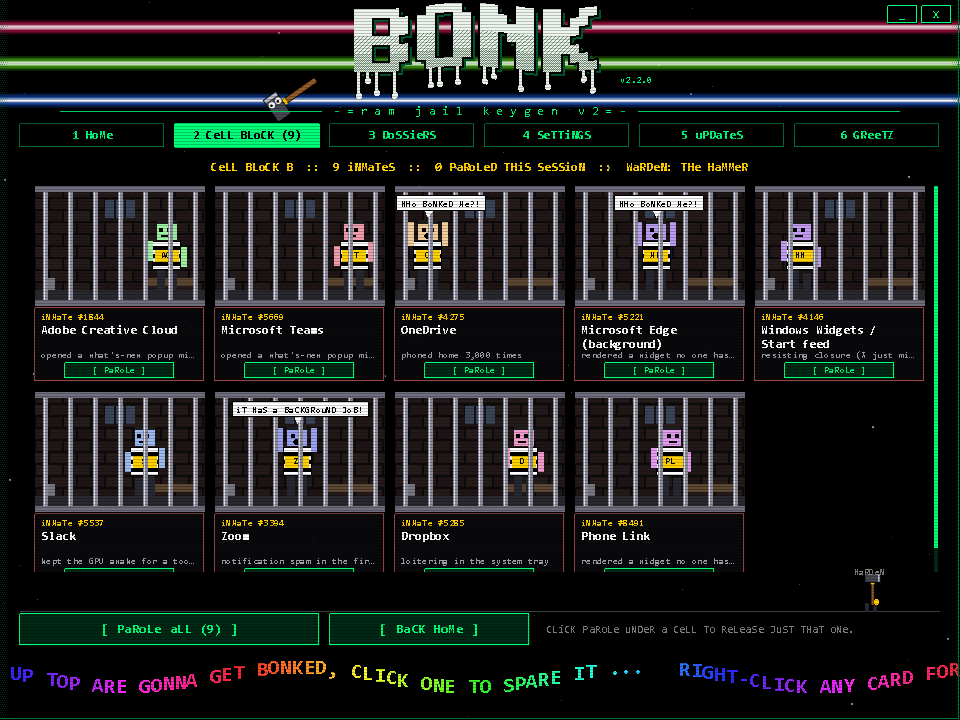
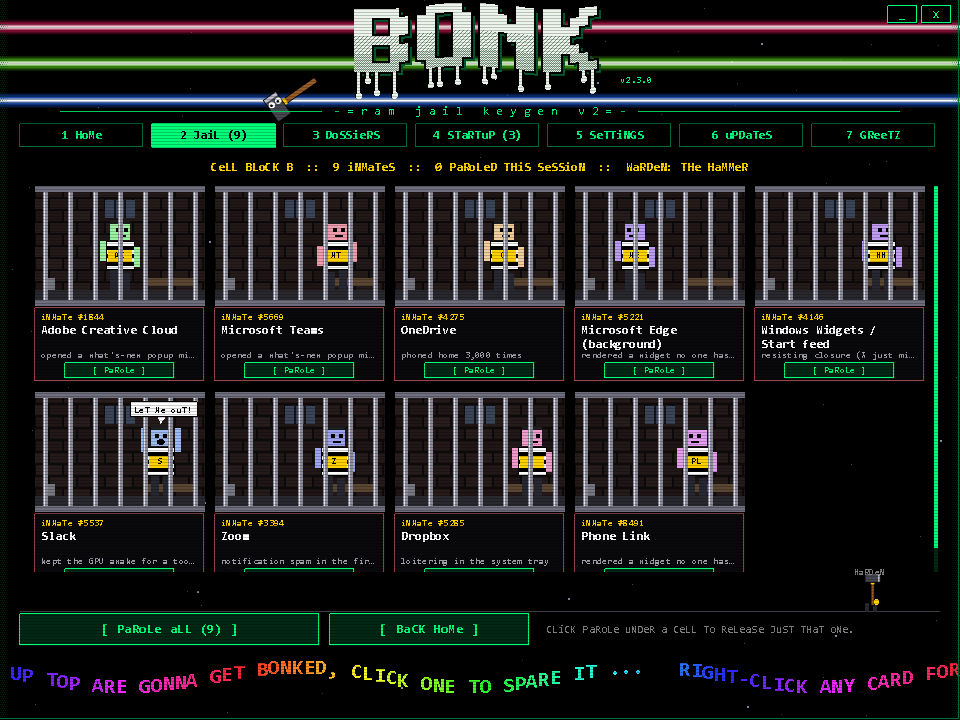
v2.3.0: Startup Jail
Stop apps from launching at login, fully reversible.

- New STARTUP screen listing HKCU/HKLM/WOW6432 Run keys and both Startup
  folders with live RAM and impact.
- Jail/parole writes Windows' StartupApproved flag (02 enabled, 03 + FILETIME
  disabled), the same switch Task Manager uses; nothing is deleted.
- HKLM entries elevate one change through a UAC prompt.
- Immune: security, audio drivers, Bonk Mode, Windows-dir exes, and the
  user's startupImmune list.
- Screens moved to named constants; 7 tabs; -StartupList dry run.
- Verified jail and parole on a throwaway HKCU entry (flag 3 then 2).

diff --git a/bonk-ui.cs b/bonk-ui.cs
@@ -368,6 +368,14 @@ namespace BonkMode
         public bool Escaping, Fire, Fired;
     }
 
+    public class StartItem
+    {
+        public string Key, Name, Source, Command;
+        public bool Enabled, Immune, Admin, Pending;
+        public int MB;
+        public float Bars;
+    }
+
     class Particle { public float X, Y, VX, VY, Life; public string C; public Color Col; }
     class Pop { public float X, Y, Age; public string Text; }
     class Star { public float X, Y, Z; }
@@ -395,6 +403,8 @@ namespace BonkMode
         public event Action<string, string> SettingChanged;
         public event Action GameCancelClicked;
         public event Action<string, string> SuspectAction;
+        public event Action<string, bool> StartupToggle;
+        public event Action StartupRefresh;
 
         public static bool NoAudio;
 
@@ -411,7 +421,8 @@ namespace BonkMode
         static readonly Color DimGreen = Color.FromArgb(0, 110, 55);
         static readonly Color Red = Color.FromArgb(255, 60, 60);
         static readonly Color Gold = Color.FromArgb(255, 210, 0);
-        static readonly string[] TabNames = { "HoMe", "CeLL BLoCK", "DoSSieRS", "SeTTiNGS", "uPDaTeS", "GReeTZ" };
+        static readonly string[] TabNames = { "HoMe", "JaiL", "DoSSieRS", "STaRTuP", "SeTTiNGS", "uPDaTeS", "GReeTZ" };
+        const int ScrHome = 0, ScrJail = 1, ScrDossier = 2, ScrStartup = 3, ScrSettings = 4, ScrUpdates = 5, ScrGreetz = 6;
         static readonly string[] PopWords = { "BoNK!", "WHaM!", "SMaSH!", "BoNK!", "K.O.!", "ByE!", "BoNK!", "PoW!", "CLaNK!" };
         static readonly string[] Bubbles = {
             "LeT Me ouT!", "i JuST WaNTeD To SYNC!", "1 MoRe uPDaTe...", "i KNoW MY RiGHTS!", "CaLL MY LaWYeR!",
@@ -492,7 +503,8 @@ namespace BonkMode
         int updPct = -1;
         string updMsg = "";
         string gameStatus = "aSK :: WaTCHiNG";
-        int settingsScroll;
+        int settingsScroll, startScroll, startJailed;
+        readonly List<StartItem> startItems = new List<StartItem>();
 
         public KeygenForm()
         {
@@ -532,7 +544,7 @@ namespace BonkMode
                 "VISIT THE CELL BLOCK AND GRANT PAROLE ONE INMATE AT A TIME ...   THE UPDATER PULLS FRESH CRACKS STRAIGHT FROM GITHUB ...   " +
                 "STEAM, YOUR GPU DRIVER AND WINDOWS HAVE DIPLOMATIC IMMUNITY ...   " +
                 "GREETZ FLY OUT TO RAZOR 1911, FAIRLIGHT, RELOADED, CODEX, SKIDROW, SND, CPY AND EVERY KEYGEN MUSICIAN WHO MADE A 40KB TRACKER FILE SLAP ...   " +
-                "NO GREETZ TO ADOBE CREATIVE CLOUD, YOU KNOW WHAT YOU DID ...   BONK MODE IS OPEN SOURCE UNDER APACHE 2.0, FORKS MUST CREDIT GITHUB.COM/MAKESUPPLY/BONK-MODE ...   [1-6] SCREENS  [B] BONK  [P] PAROLE  [M] MUSIC  [ESC] EXIT ...   ";
+                "NO GREETZ TO ADOBE CREATIVE CLOUD, YOU KNOW WHAT YOU DID ...   BONK MODE IS OPEN SOURCE UNDER APACHE 2.0, FORKS MUST CREDIT GITHUB.COM/MAKESUPPLY/BONK-MODE ...   [1-7] SCREENS  [B] BONK  [P] PAROLE  [M] MUSIC  [ESC] EXIT ...   ";
             using (Graphics g = CreateGraphics())
                 charW = g.MeasureString("MMMMMMMMMM", fScroll, PointF.Empty, StringFormat.GenericTypographic).Width / 10f;
             scrollX = W;
@@ -575,6 +587,23 @@ namespace BonkMode
 
         public void SetGameStatus(string s) { gameStatus = s ?? ""; }
 
+        public void SetStartup(string[] keys, string[] names, string[] sources, string[] commands, bool[] enabled, bool[] immune, int[] mb, bool[] admin)
+        {
+            Dictionary<string, StartItem> old = new Dictionary<string, StartItem>();
+            foreach (StartItem x in startItems) old[x.Key] = x;
+            startItems.Clear();
+            startJailed = 0;
+            for (int i = 0; i < keys.Length; i++)
+            {
+                StartItem s;
+                if (!old.TryGetValue(keys[i], out s)) { s = new StartItem(); s.Key = keys[i]; s.Bars = enabled[i] ? 0 : 1; }
+                s.Name = names[i]; s.Source = sources[i]; s.Command = commands[i]; s.Enabled = enabled[i];
+                s.Immune = immune[i]; s.MB = mb[i]; s.Admin = admin[i]; s.Pending = false;
+                if (!s.Enabled && !s.Immune) startJailed++;
+                startItems.Add(s);
+            }
+        }
+
         public void ShowGameBanner(string game)
         {
             bannerText = "GaMe oN!"; bannerSub = Leet(game + " detected. clearing the room."); bannerT = 0;
@@ -582,7 +611,7 @@ namespace BonkMode
             Play(sfxFanfare);
         }
 
-        public void ShowScreen(int s) { screen = Math.Max(0, Math.Min(5, s)); transT = 0; }
+        public void ShowScreen(int s) { screen = Math.Max(0, Math.Min(TabNames.Length - 1, s)); transT = 0; }
 
         public void PreviewBonk() { StartBonk(null, false); }
 
@@ -691,6 +720,7 @@ namespace BonkMode
             for (int i = pops.Count - 1; i >= 0; i--) { pops[i].Age += fdt; if (pops[i].Age > 0.75f) pops.RemoveAt(i); }
             if (bannerT >= 0) { bannerT += dt; if (bannerT > 2.2) bannerT = -1; }
             if (radarPing >= 0) { radarPing += dt; if (radarPing > 3) radarPing = -1; }
+            foreach (StartItem s in startItems) { if (!s.Enabled && !s.Immune) s.Bars = Math.Min(1, s.Bars + fdt * 3); else s.Bars = Math.Max(0, s.Bars - fdt * 3); }
             shake = Math.Max(0, shake - fdt * 2.5f);
             scrollX -= dt * 140;
             if (scrollX < -scrollText.Length * charW) scrollX = W;
@@ -1060,9 +1090,10 @@ namespace BonkMode
             int d = -e.Delta / 120 * 50;
             if (screen == 0) homeScroll += d;
             else if (screen == 1) jailScroll += d;
-            else if (screen == 2 && e.X < 480) appsScroll += d / 2;
-            else if (screen == 4) logScroll += d / 2;
-            else if (screen == 3) settingsScroll += d;
+            else if (screen == ScrDossier && e.X < 480) appsScroll += d / 2;
+            else if (screen == ScrUpdates) logScroll += d / 2;
+            else if (screen == ScrSettings) settingsScroll += d;
+            else if (screen == ScrStartup) startScroll += d / 2;
         }
 
         protected override void OnKeyDown(KeyEventArgs e)
@@ -1072,8 +1103,8 @@ namespace BonkMode
             else if (e.KeyCode == Keys.M) ChangeSetting("music", IsTrue(settings["music"]) ? "False" : "True");
             else if (e.KeyCode == Keys.B) StartBonk(null, true);
             else if (e.KeyCode == Keys.P) StartParoleAll();
-            else if (e.KeyCode >= Keys.D1 && e.KeyCode <= Keys.D6) Go(e.KeyCode - Keys.D1);
-            else if (e.KeyCode >= Keys.NumPad1 && e.KeyCode <= Keys.NumPad6) Go(e.KeyCode - Keys.NumPad1);
+            else if (e.KeyCode >= Keys.D1 && e.KeyCode < Keys.D1 + TabNames.Length) Go(e.KeyCode - Keys.D1);
+            else if (e.KeyCode >= Keys.NumPad1 && e.KeyCode < Keys.NumPad1 + TabNames.Length) Go(e.KeyCode - Keys.NumPad1);
         }
 
         void HandleClick(string id, MouseButtons button)
@@ -1091,7 +1122,7 @@ namespace BonkMode
             {
                 AppInfo a = Find(id.Substring(5));
                 if (a == null) return;
-                if (button == MouseButtons.Right) { selected = a.Label; filter = "all"; Go(2); Play(sfxBlip); }
+                if (button == MouseButtons.Right) { selected = a.Label; filter = "all"; Go(ScrDossier); Play(sfxBlip); }
                 else if (a.Jailed) { selected = a.Label; Go(1); }
                 else ToggleApp(a);
                 return;
@@ -1126,6 +1157,23 @@ namespace BonkMode
                 if (add && shakeOn) shake = 0.3f;
                 status = Leet(add ? "added to the bonk list: " + (s != null ? s.Label : proc) : "spared forever: " + (s != null ? s.Label : proc));
                 if (SuspectAction != null) SuspectAction(proc, add ? "add" : "spare");
+                return;
+            }
+            if (id == "startup-refresh") { Play(sfxBlip); if (StartupRefresh != null) StartupRefresh(); return; }
+            if (id.StartsWith("startup:"))
+            {
+                if (Busy) return;
+                string key = id.Substring(8);
+                StartItem s = null;
+                foreach (StartItem x in startItems) if (x.Key == key) s = x;
+                if (s == null || s.Immune) return;
+                bool enable = !s.Enabled;
+                s.Pending = true;
+                Play(enable ? sfxParole : sfxSlam);
+                if (!enable && shakeOn) shake = 0.35f;
+                status = Leet((enable ? "paroling " : "jailing ") + s.Name + (enable ? " back into startup..." : " from startup...") + (s.Admin ? " (windows will ask for admin)" : ""));
+                busy = true;
+                if (StartupToggle != null) StartupToggle(key, enable);
                 return;
             }
             if (id == "gamecancel") { Play(sfxClick); if (GameCancelClicked != null) GameCancelClicked(); return; }
@@ -1219,11 +1267,12 @@ namespace BonkMode
                 DrawNav(g);
                 switch (screen)
                 {
-                    case 0: DrawHome(g); break;
-                    case 1: DrawJail(g); break;
-                    case 2: DrawDossier(g); break;
-                    case 3: DrawSettings(g); break;
-                    case 4: DrawUpdates(g); break;
+                    case ScrHome: DrawHome(g); break;
+                    case ScrJail: DrawJail(g); break;
+                    case ScrDossier: DrawDossier(g); break;
+                    case ScrStartup: DrawStartup(g); break;
+                    case ScrSettings: DrawSettings(g); break;
+                    case ScrUpdates: DrawUpdates(g); break;
                     default: DrawGreetz(g); break;
                 }
                 DrawHammer(g);
@@ -1334,18 +1383,20 @@ namespace BonkMode
 
         void DrawNav(Graphics g)
         {
-            for (int i = 0; i < 6; i++)
+            int n = TabNames.Length, tw = (920 - (n - 1) * 8) / n;
+            for (int i = 0; i < n; i++)
             {
-                Rectangle r = new Rectangle(20 + i * 155, 124, 145, 24);
+                Rectangle r = new Rectangle(20 + i * (tw + 8), 124, tw, 24);
                 string id = "tab:" + i;
                 string label = (i + 1) + " " + TabNames[i];
-                if (i == 1 && jailCount > 0) label += " (" + jailCount + ")";
-                bool alert = i == 4 && updAvailable && (int)(t * 3) % 2 == 0;
+                if (i == ScrJail && jailCount > 0) label += " (" + jailCount + ")";
+                if (i == ScrStartup && startJailed > 0) label += " (" + startJailed + ")";
+                bool alert = i == ScrUpdates && updAvailable && (int)(t * 3) % 2 == 0;
                 bool active = screen == i;
                 Color bg = active ? Green : Hot(id) ? Color.FromArgb(0, 70, 35) : alert ? Color.FromArgb(120, 90, 0) : Color.FromArgb(0, 0, 0);
                 g.FillRectangle(B(bg), r);
                 g.DrawRectangle(P(active ? Green : DimGreen), r.X, r.Y, r.Width - 1, r.Height - 1);
-                g.DrawString(label + (i == 4 && updAvailable ? " !" : ""), fNfoB, B(active ? Color.Black : alert ? Color.Black : Green), r, sfCenter);
+                g.DrawString(label + (i == ScrUpdates && updAvailable ? " !" : ""), fNfoB, B(active ? Color.Black : alert ? Color.Black : Green), r, sfCenter);
                 Zone(r, id);
             }
         }
@@ -1900,6 +1951,69 @@ namespace BonkMode
 
         // ------------------------------------------------------------ screen 4: settings
 
+        void DrawStartup(Graphics g)
+        {
+            int total = startItems.Count;
+            string head = "STaRTuP JaiL  ::  " + total + " aPPS LauNCH aT LoGiN  ::  " + startJailed + " JaiLeD  ::  FeWeR = FaSTeR BooT";
+            g.DrawString(head, fNfoB, B(Gold), new RectangleF(20, 158, W - 40, 20), sfCenter);
+            Rectangle area = new Rectangle(20, 184, W - 40, 398);
+            g.FillRectangle(B(Color.FromArgb(200, 0, 0, 0)), area);
+            g.DrawRectangle(P(DimGreen), area);
+            const int rh = 36;
+            float contentH = total * rh + 4;
+            startScroll = Clamp(startScroll, 0, Math.Max(0, (int)contentH - area.Height));
+            if (total == 0) g.DrawString(Leet("reading your startup apps..."), fNfo, B(Color.Gray), new RectangleF(area.X, area.Y, area.Width, area.Height), sfCenter);
+            g.SetClip(area);
+            for (int i = 0; i < total; i++)
+            {
+                StartItem s = startItems[i];
+                float y = area.Y + 2 + i * rh - startScroll;
+                if (y + rh < area.Top || y > area.Bottom) continue;
+                zonesOff = y < area.Top || y + rh - 2 > area.Bottom;
+                RectangleF row = new RectangleF(area.X + 2, y, area.Width - 12, rh - 3);
+                g.FillRectangle(B(i % 2 == 0 ? Color.FromArgb(10, 20, 14) : Color.FromArgb(16, 28, 20)), row);
+                string id = "startup:" + s.Key;
+                RectangleF btn = new RectangleF(row.X + 6, y + 6, 104, 22);
+                if (s.Immune)
+                {
+                    g.FillRectangle(B(Color.FromArgb(30, 30, 40)), btn);
+                    g.DrawRectangle(P(Color.Gray), btn.X, btn.Y, btn.Width - 1, btn.Height - 1);
+                    g.DrawString("iMMuNe", fTiny, B(Color.Gray), btn, sfCenter);
+                }
+                else
+                {
+                    bool hot = Hot(id) && !Busy;
+                    Color fg = s.Pending ? Gold : s.Enabled ? Green : Red;
+                    g.FillRectangle(B(hot ? fg : s.Enabled ? Color.FromArgb(0, 45, 22) : Color.FromArgb(60, 0, 0)), btn);
+                    g.DrawRectangle(P(fg), btn.X, btn.Y, btn.Width - 1, btn.Height - 1);
+                    string txt = s.Pending ? "..." : s.Enabled ? "STaRTS" : "JaiLeD";
+                    g.DrawString(txt, fNfoB, B(hot ? Color.Black : fg), btn, sfCenter);
+                    if (!Busy) Zone(btn, id);
+                }
+                g.DrawString(s.Name, fNfoB, B(s.Enabled || s.Immune ? Color.White : Color.FromArgb(170, 170, 180)), new RectangleF(row.X + 120, y + 3, 330, 16), sfLeftMid);
+                g.DrawString(s.Command, fTiny, B(Color.FromArgb(120, 130, 120)), new RectangleF(row.X + 120, y + 18, 520, 13), sfLeftMid);
+                SizeF ss = g.MeasureString(s.Source, fTiny);
+                g.FillRectangle(B(s.Admin ? Color.FromArgb(70, 50, 0) : Color.FromArgb(0, 40, 50)), row.X + 470, y + 3, ss.Width + 4, 13);
+                g.DrawString(s.Source, fTiny, B(s.Admin ? Gold : Color.FromArgb(120, 220, 255)), row.X + 472, y + 4);
+                if (s.Admin) g.DrawString(Leet("admin"), fTiny, B(Color.FromArgb(150, 120, 40)), row.X + 476 + ss.Width, y + 4);
+                string impact = s.MB >= 300 ? "HeaVY" : s.MB >= 80 ? "MeDiuM" : s.MB > 0 ? "LiGHT" : "NoT RuNNiNG";
+                Color ic = s.MB >= 300 ? Red : s.MB >= 80 ? Color.Yellow : s.MB > 0 ? Green : Color.Gray;
+                g.DrawString(impact, fNfoB, B(ic), new RectangleF(row.Right - 190, y + 3, 100, 16), sfLeftMid);
+                if (s.MB > 0) g.DrawString(FormatSize(s.MB) + Leet(" now"), fTiny, B(Color.FromArgb(160, 170, 160)), new RectangleF(row.Right - 190, y + 19, 100, 12), sfLeftMid);
+                if (s.Bars > 0)
+                {
+                    float bw = row.Width * s.Bars;
+                    g.FillRectangle(B(Color.FromArgb((int)(60 * s.Bars), 255, 0, 0)), row.X, row.Y, bw, row.Height);
+                    for (float bx = row.X + 130; bx < row.X + bw; bx += 46)
+                        g.FillRectangle(B(Color.FromArgb(120, 170, 170, 185)), bx, row.Y, 3, row.Height);
+                }
+            }
+            zonesOff = false;
+            g.ResetClip();
+            Scrollbar(g, area.Right - 6, area.Top + 2, area.Bottom - 2, contentH, startScroll);
+            Button(g, new RectangleF(20, BtnY, 200, 32), "[ ReFReSH ]", "startup-refresh", Color.FromArgb(0, 40, 20), Green, !Busy);
+            g.DrawString(Leet("nothing is deleted. a jailed app just stops launching at login; parole flips it back. admin items ask windows first."), fSmall, B(Color.Gray), new RectangleF(232, BtnY + 2, W - 252, 30), sfWrap);
+        }
         void DrawSettings(Graphics g)
         {
             Rectangle box = new Rectangle(20, 162, W - 40, 448);
@@ -2075,7 +2189,7 @@ namespace BonkMode
                 "    aPPS THaT MiNiMiZe WHeN You HiT X",
                 "",
                 "  KeYS:",
-                "    [1-6] SCReeNS  [B] BoNK  [P] PaRoLe",
+                "    [1-7] SCReeNS  [B] BoNK  [P] PaRoLe",
                 "    [M] MuSiC  [eSC] eXiT  WHeeL SCRoLLS",
                 "",
                 "  oPeN SouRCe (aPaCHe-2.0):",

diff --git a/README.md b/README.md
@@ -88,15 +88,23 @@ Click **[PAROLE]** under one cell and that inmate's bars slide open and it sprin
 
 Every app on your list, running or asleep, filterable by **targets / spared / jailed / sleeping**. Each dossier has a mugshot against a height chart, its live status, every process alias it hides behind, what parole will do to bring it back, its rap sheet, and a **live RAM history chart**. Sentence it, spare it, **BONK NOW** just that one, or parole it from here.
 
-### 4 · SETTINGS
+### 4 · STARTUP JAIL: faster boot, every day
+
+![Startup jail](screenshots/startup.png)
+
+Every app that launches when you log in, from the registry Run keys and the Startup folders, with how heavy it is right now. Click **STARTS** to jail it from startup and **JAILED** to parole it back.
+
+It flips Windows' own StartupApproved switch, the same one Task Manager's Startup tab uses. Nothing is deleted, Task Manager shows the same state, and you can undo anything. Machine-wide entries ask Windows for admin permission first. Windows Security, audio drivers and Bonk Mode itself are immune, and you can make anything else immune with `startupImmune` in your `bonk-list.json`.
+
+### 5 · SETTINGS
 
 ![Settings](screenshots/settings.png)
 
-### 5 · UPDATES: patch center
+### 6 · UPDATES: patch center
 
 ![Updates](screenshots/updates.png)
 
-### 6 · GREETZ
+### 7 · GREETZ
 
 ![Greetz](screenshots/greetz.png)
 
@@ -125,7 +133,7 @@ That adds **Bonk Mode** to your Start Menu, puts a 🔨 in your tray (check the 
 
 | Key | Does |
 |---|---|
-| `1`-`6` | Switch screens |
+| `1`-`7` | Switch screens |
 | `B` | BONK 'EM ALL |
 | `P` | Parole everyone |
 | `M` | Music on/off |
@@ -148,7 +156,7 @@ Bonk Mode will not bonk the launcher your game runs on, and it will not bonk Win
 
 ## ⚙ Settings
 
-Everything is inside the app on screen **4**, and every change saves instantly.
+Everything is inside the app on screen **5**, and every change saves instantly.
 
 | Setting | What it does |
 |---|---|
@@ -186,7 +194,7 @@ The starter list only sentences the obvious freeloaders: cloud sync, work chat, 
 
 ## 🔄 Live updates
 
-Screen **5** is the patch center. It checks this repo, shows you the changelog, and when there's a new version you click **[INSTALL]**, watch a very official-looking hex dump scroll by, and Bonk Mode restarts itself on the new version.
+Screen **6** is the patch center. It checks this repo, shows you the changelog, and when there's a new version you click **[INSTALL]**, watch a very official-looking hex dump scroll by, and Bonk Mode restarts itself on the new version.
 
 ![Patching](screenshots/patching.png)
 
@@ -219,11 +227,16 @@ None of these close anything:
 .\bonk-mode.ps1 -Preview .\shots   # renders every keygen screen to PNG (uses demo apps)
 .\bonk-mode.ps1 -GameScan          # which game folders are watched, and is a game running now
 .\bonk-mode.ps1 -Radar             # heavy apps that are not on your list yet
+.\bonk-mode.ps1 -StartupList       # everything that launches at login, and its jail state
 ```
 
 ---
 
 ## 📜 Version history
+
+### v2.3.0 · Startup Jail
+- New Startup screen: jail apps from launching at login with Windows' own switch. Nothing deleted, fully reversible.
+- Admin entries ask Windows first; security and audio drivers are immune.
 
 ### v2.2.0 · Hog Radar
 - Sweeps for heavy apps that aren't on your list and flags them as NEW SUSPECTS with one-click add or spare-forever.

diff --git a/CHANGELOG.md b/CHANGELOG.md
@@ -1,5 +1,13 @@
 # Bonk Mode changelog
 
+## v2.3.0 - Startup Jail
+- New STARTUP screen (key 4): every app that launches when you log in, from both Run keys, the 32-bit Run key and both Startup folders, with how heavy it is right now.
+- Click STARTS to jail an app from startup, click JAILED to parole it back. It uses Windows' own StartupApproved switch, the same one Task Manager's Startup tab uses, so nothing is ever deleted and Task Manager shows the same state.
+- Machine-wide (HKLM) entries ask Windows for admin permission for that one change.
+- Windows Security, audio drivers and Bonk Mode itself are immune. Add your own immune entries with startupImmune in bonk-list.json.
+- Seven screens now; the cell block tab is called JAIL.
+- New: -StartupList prints everything that launches at login and its jail state.
+
 ## v2.2.0 - Hog Radar
 - Every 30 seconds Bonk Mode sweeps for heavy apps that are not on your bonk list. Anything over the threshold (400 MB by default) becomes a NEW SUSPECT.
 - Suspects get their own gold section at the top of Home with a radar sweep. [+ LIST] adds one to your bonk list in a click, [SPARE] ignores it forever.

diff --git a/ROADMAP.md b/ROADMAP.md
@@ -14,11 +14,9 @@ This is the plan, not a promise. Order may change. Ideas welcome in [Issues](htt
 | v2.0.1 | Credit Where Credit Is Due | Apache 2.0 + NOTICE |
 | v2.1.0 | Auto Game Mode | Bonks when a game starts, paroles when it quits |
 | v2.2.0 | Hog Radar | Flags heavy apps that are not on your list yet |
+| v2.3.0 | Startup Jail | Stop apps from launching at login, fully reversible |
 
 ## 🔜 Next up
-
-### v2.3.0 · Startup Jail
-See every app that launches when Windows boots and how much it slows you down. Jail the freeloaders from startup. Every change can be undone, and nothing is deleted.
 
 ### v2.4.0 · Profiles, CPU and disk
 Gaming, Streaming (keeps Discord and OBS), Work and Battery profiles. CPU and disk hog detection, not just RAM. Optional High Performance power plan while bonked.
